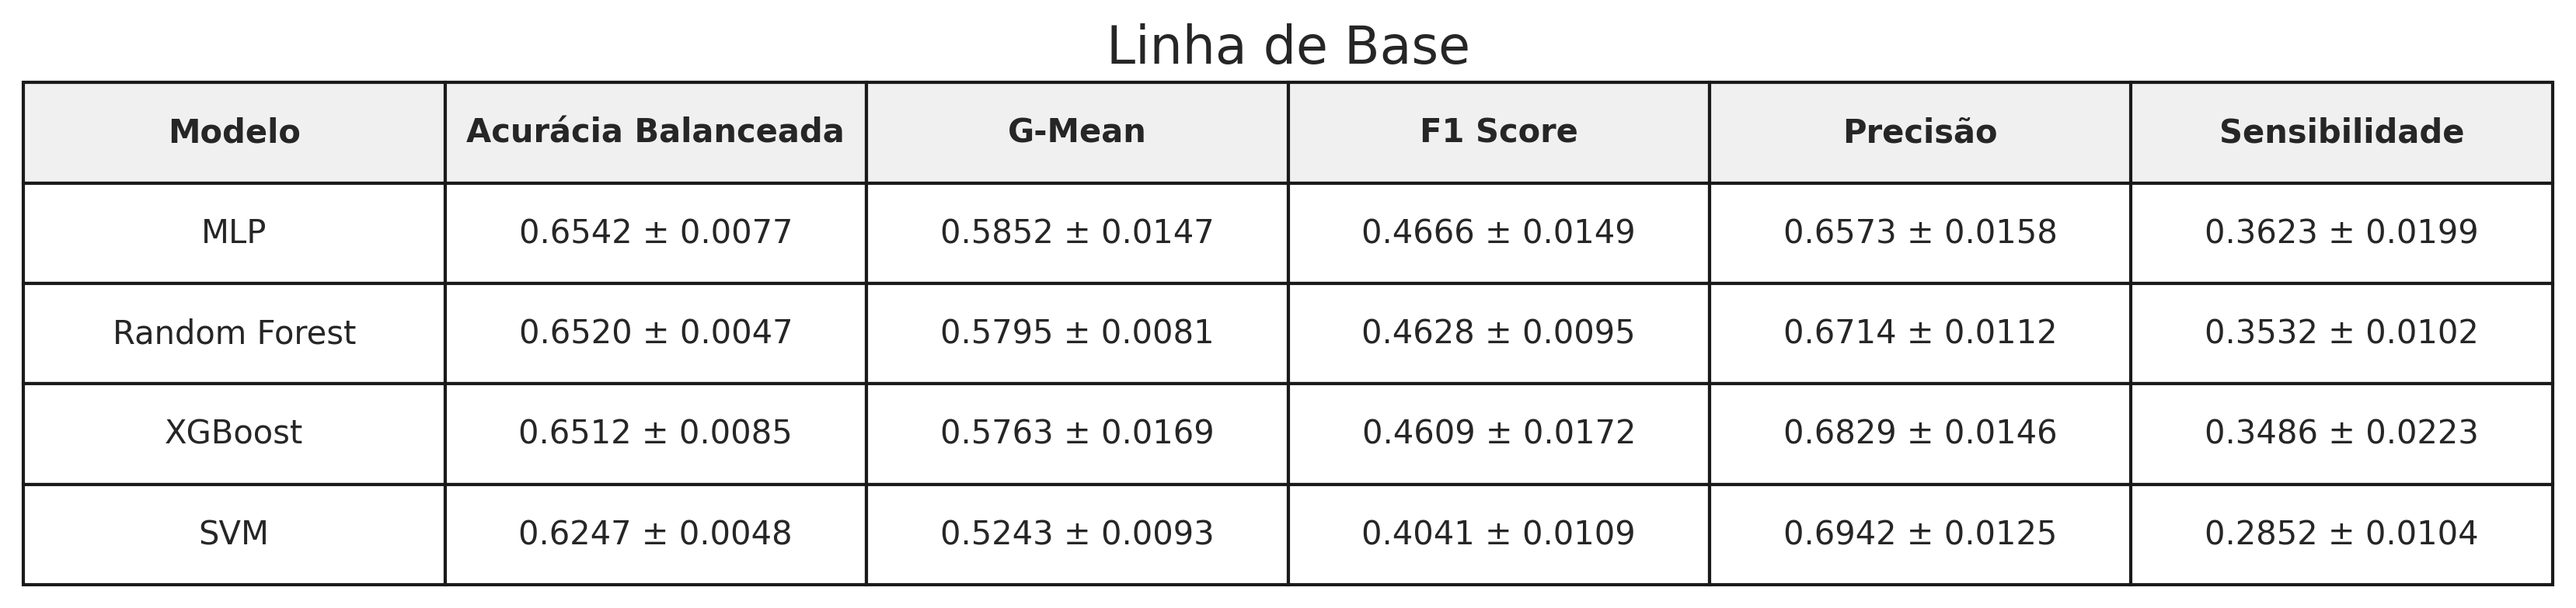
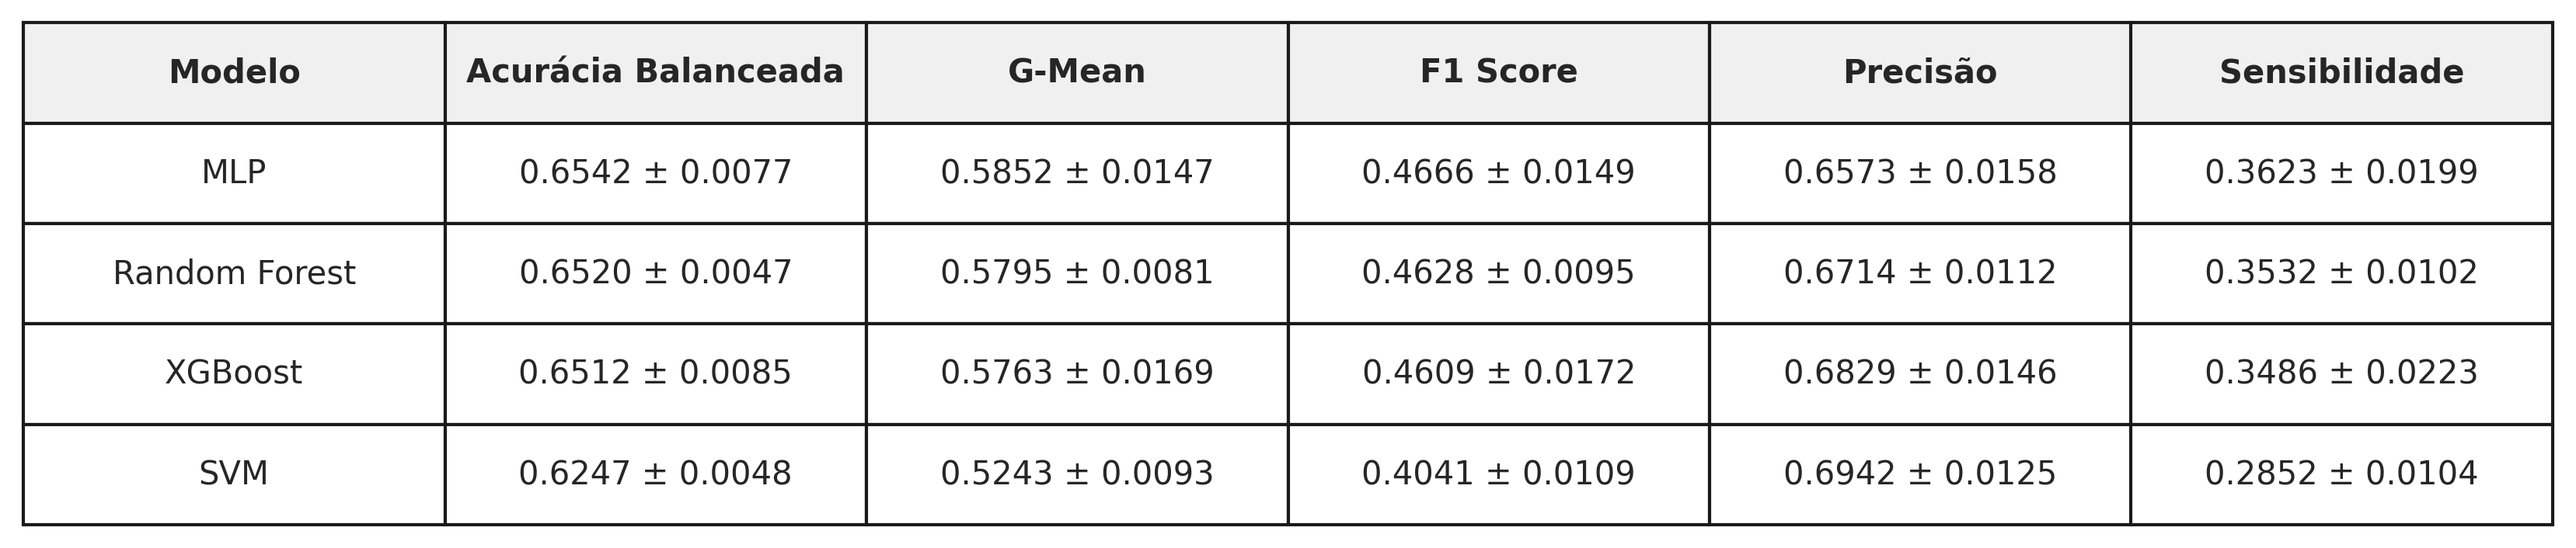
ajustar rótulos e títulos para a apresentação dos resultados parciais

diff --git a/experimentos/experiments/cli/analysis.py b/experimentos/experiments/cli/analysis.py
@@ -283,9 +283,9 @@ def analyze_risk_tradeoff(
             edgecolor="k",
         )
 
-        title = _(
-            "Precision-Recall Trade-off (Mean over {num_seeds} seeds) - {dataset_name}"
-        ).format(num_seeds=ctx.cfg.num_seeds, dataset_name=ds_display)
+        title = _("Precision-Sensitivity Trade-off - {dataset_name}").format(
+            num_seeds=ctx.cfg.num_seeds, dataset_name=ds_display
+        )
         plt.title(title, fontsize=16)
         plt.xlabel(_("Recall (Sensitivity) - Ability to detect defaults"), fontsize=12)
         plt.ylabel(_("Precision - Trustworthiness of default prediction"), fontsize=12)
@@ -685,7 +685,6 @@ def analyze_results(
             fig_height = header_height + (len(sub_df) * row_height)
 
             plt.figure(figsize=(14, fig_height))
-            plt.title(_(tech), fontsize=16)
             plt.axis("off")
 
             sub_df = sub_df.drop(columns=[technique_col])
